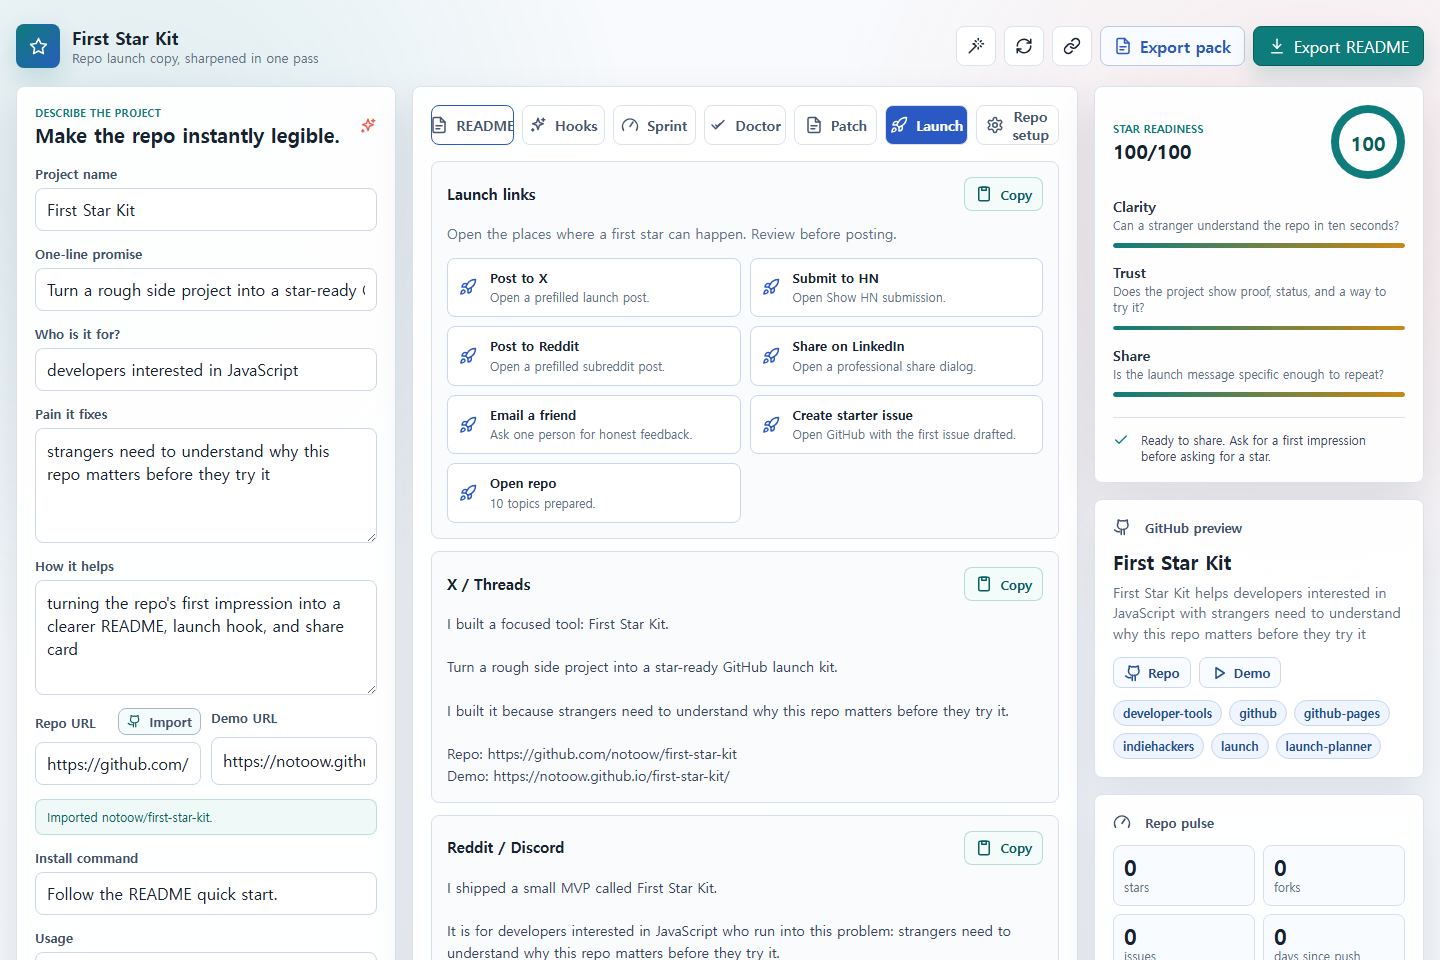
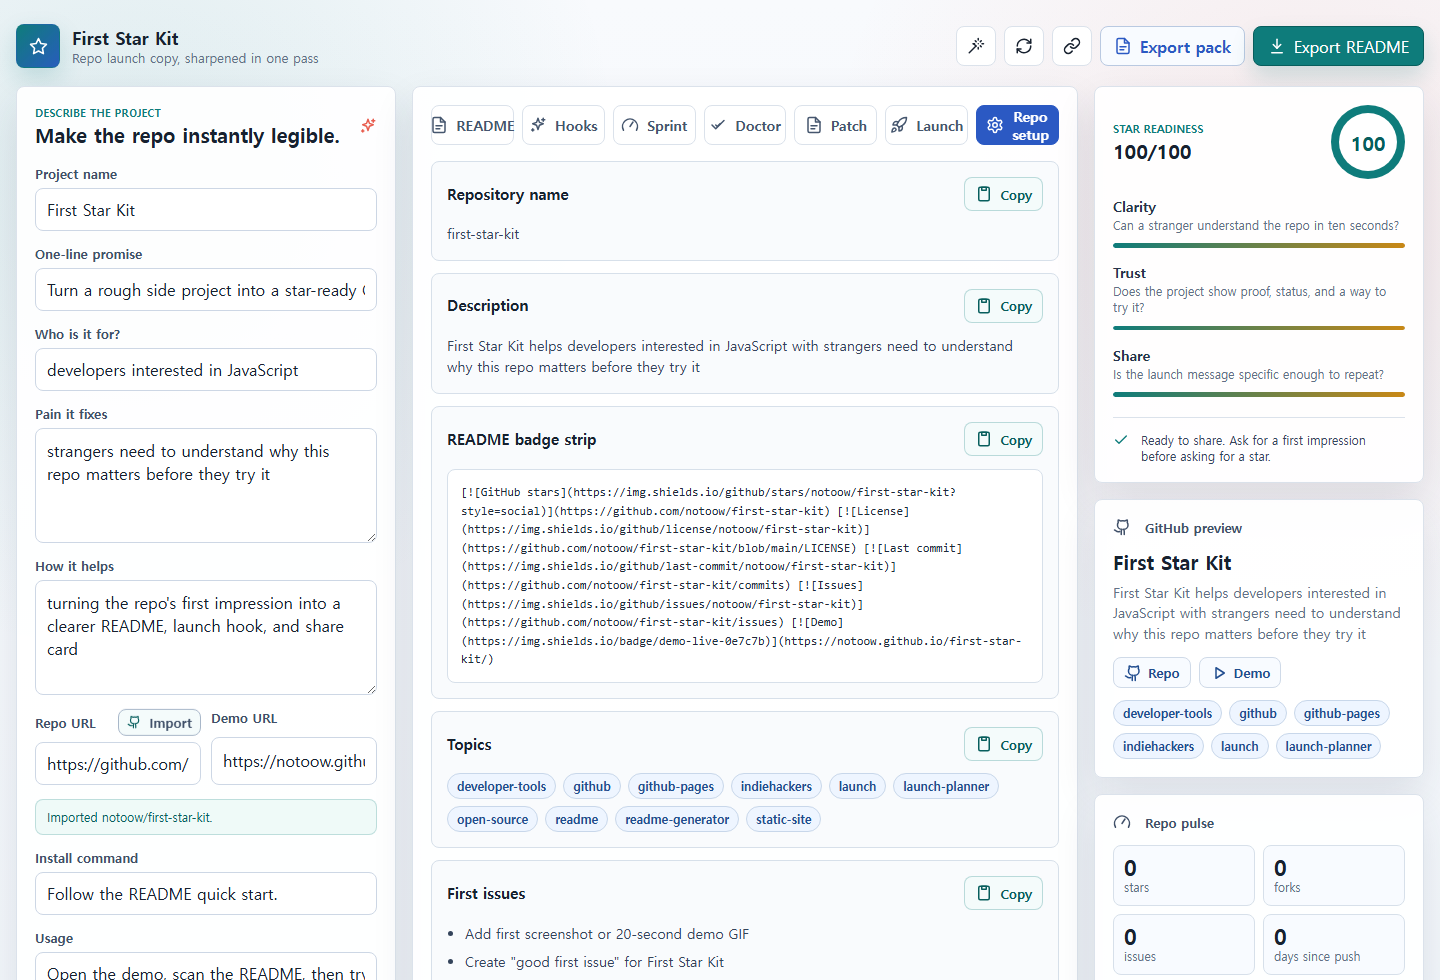
add readme badge strip

diff --git a/src/app.js b/src/app.js
@@ -251,6 +251,64 @@ function buildRepoDescription(data) {
   return compact(`${name} helps ${audience} with ${problem}`, 155);
 }
 
+function shieldSegment(value) {
+  return encodeURIComponent(String(value || "unknown").trim().replace(/-/g, "--"));
+}
+
+function staticBadge(label, message, color) {
+  return `https://img.shields.io/badge/${shieldSegment(label)}-${shieldSegment(message)}-${color}`;
+}
+
+function markdownBadge(label, badgeUrl, linkUrl) {
+  return linkUrl ? `[![${label}](${badgeUrl})](${linkUrl})` : `![${label}](${badgeUrl})`;
+}
+
+function markdownLinkUrl(value) {
+  return String(value || "").trim().replace(/\)/g, "%29").replace(/\s/g, "%20");
+}
+
+function buildBadgeStrip(data) {
+  const parsed = parseGitHubRepoUrl(data.repoUrl);
+  const demo = hasUrl(data.demoUrl) ? markdownLinkUrl(data.demoUrl) : "";
+
+  if (!parsed) {
+    const status = data.status.trim() || "MVP";
+    const license = data.license.trim() || "MIT";
+    return {
+      markdown: [
+        markdownBadge("Status", staticBadge("status", status, "0e7c7b")),
+        markdownBadge("License", staticBadge("license", license, "2b59c3")),
+        demo ? markdownBadge("Demo", staticBadge("demo", "live", "0e7c7b"), demo) : "",
+      ]
+        .filter(Boolean)
+        .join(" "),
+    };
+  }
+
+  const owner = encodeURIComponent(parsed.owner);
+  const repo = encodeURIComponent(parsed.repo);
+  const repoPath = `${owner}/${repo}`;
+  const repoUrl = `https://github.com/${parsed.owner}/${parsed.repo}`;
+  const defaultBranch = data.repoPulse && data.repoPulse.defaultBranch ? data.repoPulse.defaultBranch : "main";
+  const branchPath = encodeURIComponent(defaultBranch);
+  const badges = [
+    markdownBadge(
+      "GitHub stars",
+      `https://img.shields.io/github/stars/${repoPath}?style=social`,
+      repoUrl,
+    ),
+    markdownBadge("License", `https://img.shields.io/github/license/${repoPath}`, `${repoUrl}/blob/${branchPath}/LICENSE`),
+    markdownBadge("Last commit", `https://img.shields.io/github/last-commit/${repoPath}`, `${repoUrl}/commits`),
+    markdownBadge("Issues", `https://img.shields.io/github/issues/${repoPath}`, `${repoUrl}/issues`),
+  ];
+
+  if (demo) {
+    badges.push(markdownBadge("Demo", staticBadge("demo", "live", "0e7c7b"), demo));
+  }
+
+  return { markdown: badges.join(" ") };
+}
+
 function toneLead(tone) {
   if (tone === "playful") return "I made a tiny thing";
   if (tone === "technical") return "I built a small developer tool";
@@ -268,8 +326,11 @@ function buildReadme(data) {
   const repo = data.repoUrl.trim();
   const demo = data.demoUrl.trim();
   const keywords = splitKeywords(data.keywords);
+  const badges = buildBadgeStrip(data).markdown;
 
   return `# ${name}
+
+${badges}
 
 > ${tagline}
 
@@ -607,6 +668,7 @@ function buildPatchSections(data, repoKit, doctor) {
   const demo = data.demoUrl.trim();
   const repo = data.repoUrl.trim();
   const install = data.installCommand.trim() || "Open the project and follow the README.";
+  const badges = buildBadgeStrip(data).markdown;
   const issue = buildStarterIssue(data);
   const failedChecks = doctor.checks.filter((check) => !check.ok);
   const topFixes = failedChecks.length
@@ -623,6 +685,10 @@ function buildPatchSections(data, repoKit, doctor) {
 ${name} helps ${audience} who run into this problem: ${sentence(problem, "the workflow is harder than it should be")} It helps by ${promise}.
 
 ${demo ? `Demo: ${demo}\n` : ""}${repo ? `Repo: ${repo}\n` : ""}`,
+    },
+    {
+      title: "Badge strip",
+      text: badges,
     },
     {
       title: "Quick start",
@@ -899,7 +965,7 @@ function renderPatch(sections) {
   `;
 }
 
-function renderRepo(repoKit) {
+function renderRepo(repoKit, badgeKit) {
   const panel = document.querySelector('[data-panel="repo"]');
   panel.innerHTML = `
     <article class="copy-block">
@@ -916,6 +982,14 @@ function renderRepo(repoKit) {
         ${copyButton("description")}
       </div>
       <p>${escapeHtml(repoKit.description)}</p>
+    </article>
+
+    <article class="copy-block badge-block">
+      <div class="copy-block-head">
+        <h2>README badge strip</h2>
+        ${copyButton("badges")}
+      </div>
+      <pre class="badge-preview">${escapeHtml(badgeKit.markdown)}</pre>
     </article>
 
     <article class="copy-block">
@@ -1047,6 +1121,7 @@ function render() {
   const posts = buildLaunchPosts(state);
   const hooks = buildHooks(state);
   const repoKit = buildRepoChecklist(state);
+  const badgeKit = buildBadgeStrip(state);
   const scores = getScores(state);
   const nudges = getNudges(state);
   const totalScore = Math.round(scores.reduce((sum, item) => sum + item.score, 0) / scores.length);
@@ -1061,7 +1136,7 @@ function render() {
   renderDoctor(doctor);
   renderPatch(patchSections);
   renderLaunch(posts, launchLinks);
-  renderRepo(repoKit);
+  renderRepo(repoKit, badgeKit);
   renderScores(scores, nudges);
   renderPreview(repoKit);
   renderRepoPulse(state.repoPulse);
@@ -1116,6 +1191,7 @@ function textForCopy(key) {
   const doctor = buildDoctor(state, repoKit);
   const patches = buildPatchSections(state, repoKit, doctor);
   const launchLinks = buildLaunchLinks(state, repoKit, posts);
+  const badges = buildBadgeStrip(state);
 
   if (key === "readme") return readme;
   if (key === "launchLinks") return launchLinks.map((link) => `${link.label}: ${link.href}`).join("\n");
@@ -1138,6 +1214,7 @@ function textForCopy(key) {
   }
   if (key === "repoName") return repoKit.slug;
   if (key === "description") return repoKit.description;
+  if (key === "badges") return badges.markdown;
   if (key === "topics") return repoKit.topics.join(", ");
   if (key === "issues") return repoKit.issues.map((issue) => `- ${issue}`).join("\n");
   return "";
@@ -1164,6 +1241,7 @@ function buildLaunchPackMarkdown(data) {
   const doctor = buildDoctor(data, repoKit);
   const patches = buildPatchSections(data, repoKit, doctor);
   const launchLinks = buildLaunchLinks(data, repoKit, posts);
+  const badges = buildBadgeStrip(data);
   const pulse = data.repoPulse;
   const metadata = [
     `Project: ${data.projectName || "Project Name"}`,
@@ -1194,6 +1272,10 @@ Prepared with First Star Kit.
 ${metadata.map((item) => `- ${item}`).join("\n")}
 
 ${pulseBlock}
+
+## README Badge Strip
+
+${badges.markdown}
 
 ## Star Readiness
 

diff --git a/index.html b/index.html
@@ -16,7 +16,7 @@
     <meta property="og:url" content="https://notoow.github.io/first-star-kit/" />
     <meta name="twitter:card" content="summary_large_image" />
     <title>First Star Kit</title>
-    <link rel="stylesheet" href="./src/styles.css?v=20260511i" />
+    <link rel="stylesheet" href="./src/styles.css?v=20260511j" />
   </head>
   <body>
     <svg aria-hidden="true" class="svg-sprite">
@@ -351,6 +351,6 @@
       </section>
     </main>
 
-    <script src="./src/app.js?v=20260511i"></script>
+    <script src="./src/app.js?v=20260511j"></script>
   </body>
 </html>

diff --git a/src/styles.css b/src/styles.css
@@ -516,6 +516,21 @@ p {
   word-break: break-word;
 }
 
+.badge-preview {
+  overflow: auto;
+  margin: 13px 0 0;
+  border: 1px solid #d7e0ea;
+  border-radius: 8px;
+  color: #1f2a3a;
+  background: #ffffff;
+  padding: 13px;
+  font-family: "SFMono-Regular", Consolas, "Liberation Mono", monospace;
+  font-size: 12px;
+  line-height: 1.55;
+  white-space: pre-wrap;
+  word-break: break-word;
+}
+
 .launch-summary p {
   color: var(--muted);
 }

diff --git a/README.md b/README.md
@@ -1,5 +1,7 @@
 # First Star Kit
 
+[![GitHub stars](https://img.shields.io/github/stars/notoow/first-star-kit?style=social)](https://github.com/notoow/first-star-kit) [![License](https://img.shields.io/github/license/notoow/first-star-kit)](https://github.com/notoow/first-star-kit/blob/main/LICENSE) [![Last commit](https://img.shields.io/github/last-commit/notoow/first-star-kit)](https://github.com/notoow/first-star-kit/commits) [![Issues](https://img.shields.io/github/issues/notoow/first-star-kit)](https://github.com/notoow/first-star-kit/issues) [![Demo](https://img.shields.io/badge/demo-live-0e7c7b)](https://notoow.github.io/first-star-kit/)
+
 > Turn a rough side project into a star-ready GitHub launch kit.
 
 First Star Kit helps developers turn a half-polished repo idea into the pieces people actually see first: README copy, GitHub metadata, starter issues, and launch posts.
@@ -17,6 +19,7 @@ Getting a first GitHub star is often less about the code and more about whether 
 - Live README generator
 - Public GitHub repo import for name, description, topics, homepage, license, and quick-start hints
 - Repo Pulse for stars, forks, issue count, recent activity, README, license, homepage, and topics
+- README badge strip generator for stars, license, last commit, issues, and demo
 - README Doctor for first-impression gaps and exact fixes
 - Drop-in README patches for hero copy, quick start, why section, starter issue, and feedback ask
 - Launch links for X, Hacker News, Reddit, LinkedIn, email, GitHub starter issue, and repo
